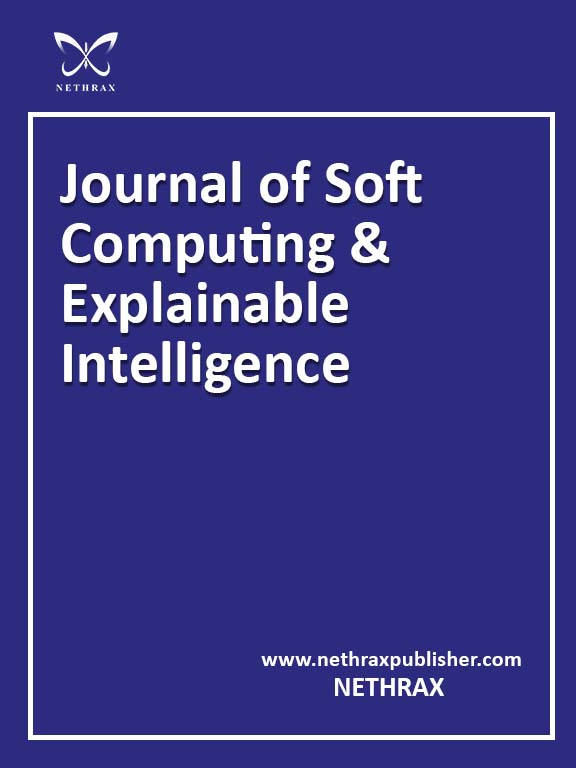
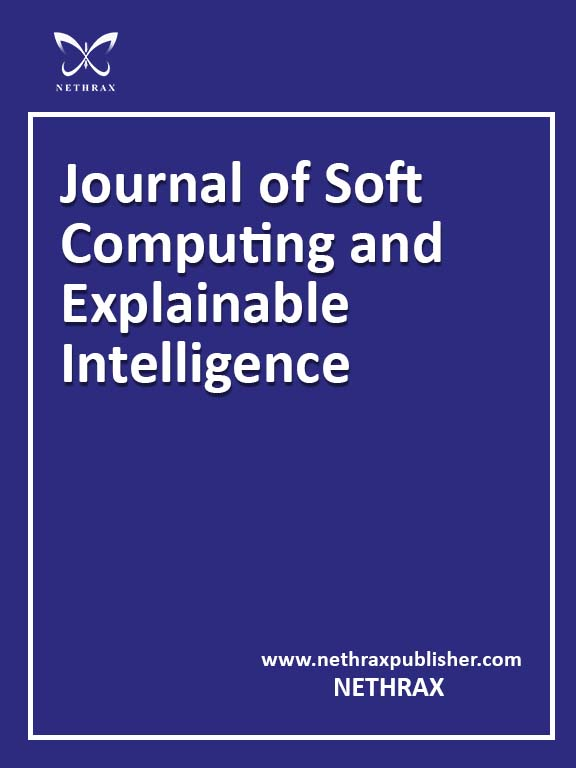
error

Changed region(s): [[0.5938, 0.2812, 0.7812, 0.3438]]

diff --git a/JNCIR.html b/JNCIR.html
@@ -4,7 +4,7 @@
 <head>
     <meta charset="UTF-8">
     <meta name="viewport" content="width=device-width, initial-scale=1.0">
-    <title>Journal of Soft Computing & Explainable Intelligence</title>
+    <title>Journal of Soft Computing and Explainable Intelligence</title>
     <link href="https://cdn.jsdelivr.net/npm/bootstrap@5.3.0/dist/css/bootstrap.min.css" rel="stylesheet">
     <link rel="stylesheet" href="https://cdnjs.cloudflare.com/ajax/libs/font-awesome/7.0.1/css/all.min.css"
         integrity="sha512-2SwdPD6INVrV/lHTZbO2nodKhrnDdJK9/kg2XD1r9uGqPo1cUbujc+IYdlYdEErWNu69gVcYgdxlmVmzTWnetw=="
@@ -192,7 +192,7 @@
 
             <p class="lh-lg fss">Major Topics:</p>
 
-            <ul class="fss">
+            <ul class="fss pop-list">
                 <li>Neural Networks</li>
                 <li>Deep Learning</li>
                 <li>Algorithms and Applications</li>
@@ -216,7 +216,7 @@
 
         </div>
     </div>
-    
+
     <div class="carousel-section-container pt-5">
         <h2 class="fs-4 p-3">Related Journals</h2>
 
@@ -228,7 +228,7 @@
                             class="feature-card-img">
                     </div>
                     <div class="feature-card-body">
-                        <h5 class="feature-card-title">Journal of Soft Computing & Explainable Intelligence</h5>
+                        <h5 class="feature-card-title">Journal of Soft Computing and Explainable Intelligence</h5>
                         <p class="feature-card-text">Focuses on soft computing techniques in real-world applications and
                             theory.</p>
                         <a href="#" class="feature-card-btn">Learn More</a>

diff --git a/JSCEI.html b/JSCEI.html
@@ -4,7 +4,7 @@
 <head>
     <meta charset="UTF-8">
     <meta name="viewport" content="width=device-width, initial-scale=1.0">
-    <title>Journal of Soft Computing & Explainable Intelligence</title>
+    <title>Journal of Soft Computing and Explainable Intelligence</title>
     <link href="https://cdn.jsdelivr.net/npm/bootstrap@5.3.0/dist/css/bootstrap.min.css" rel="stylesheet">
     <link rel="stylesheet" href="https://cdnjs.cloudflare.com/ajax/libs/font-awesome/7.0.1/css/all.min.css"
         integrity="sha512-2SwdPD6INVrV/lHTZbO2nodKhrnDdJK9/kg2XD1r9uGqPo1cUbujc+IYdlYdEErWNu69gVcYgdxlmVmzTWnetw=="
@@ -36,7 +36,7 @@
         <div class="container">
             <div class="row w-100">
                 <div class="col-md-10 p-2">
-                    <a class="navbar-brand text-white" href="#">Journal of Soft Computing & Explainable Intelligence</a>
+                    <a class="navbar-brand text-white" href="#">Journal of Soft Computing and Explainable Intelligence</a>
                 </div>
                 <div class="col-md-2">
                     <a class="navbar-brand text-white btn btn-dark " href="#">Submit Your Article</a>
@@ -204,7 +204,7 @@
 
             <p class="lh-lg fss">Major Topics:</p>
 
-            <ul class="fss">
+            <ul class="fss pop-list">
                 <li>Explainability in fuzzy / soft systems</li>
                 <li>Machine and Deep Learning</li>
                 <li>Control Systems</li>

diff --git a/IJSBD.html b/IJSBD.html
@@ -200,7 +200,7 @@
                 but is not limited to, the following areas:
             </p>
 
-            <ul class="fss">
+            <ul class="fss pop-list">
                 <li>Human Resource</li>
                 <li>Entrepreneurship</li>
                 <li>Innovation & Technology</li>
@@ -230,7 +230,7 @@
                             class="feature-card-img">
                     </div>
                     <div class="feature-card-body">
-                        <h5 class="feature-card-title">Journal of Soft Computing & Explainable Intelligence</h5>
+                        <h5 class="feature-card-title">Journal of Soft Computing and Explainable Intelligence</h5>
                         <p class="feature-card-text">Focuses on soft computing techniques in real-world applications and
                             theory.</p>
                         <a href="#" class="feature-card-btn">Learn More</a>

diff --git a/css/style.css b/css/style.css
@@ -19,10 +19,13 @@ body.no-scroll {
     word-spacing: 0.2em;
 }
 
-ul li,
+.pop-list li,
 ol li {
     line-height: 1.8;
     margin-bottom: 14px;
+}
+.search-input{
+    padding: 4%;
 }
 
 #stickyNav {
